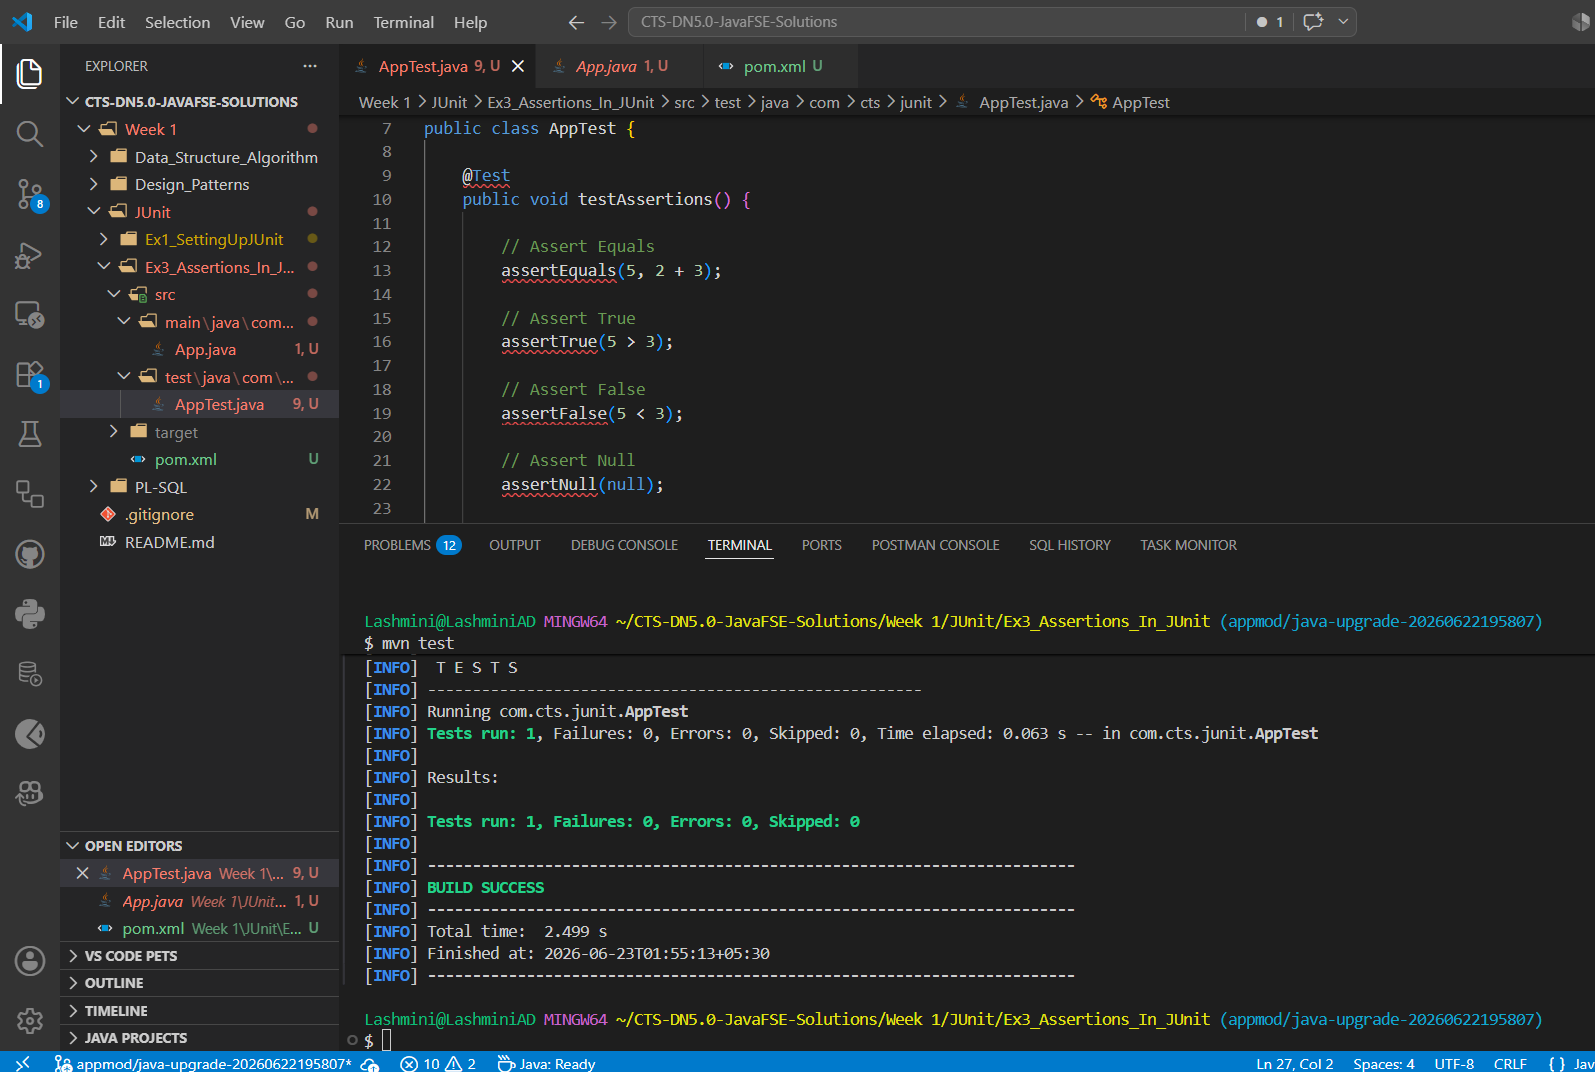
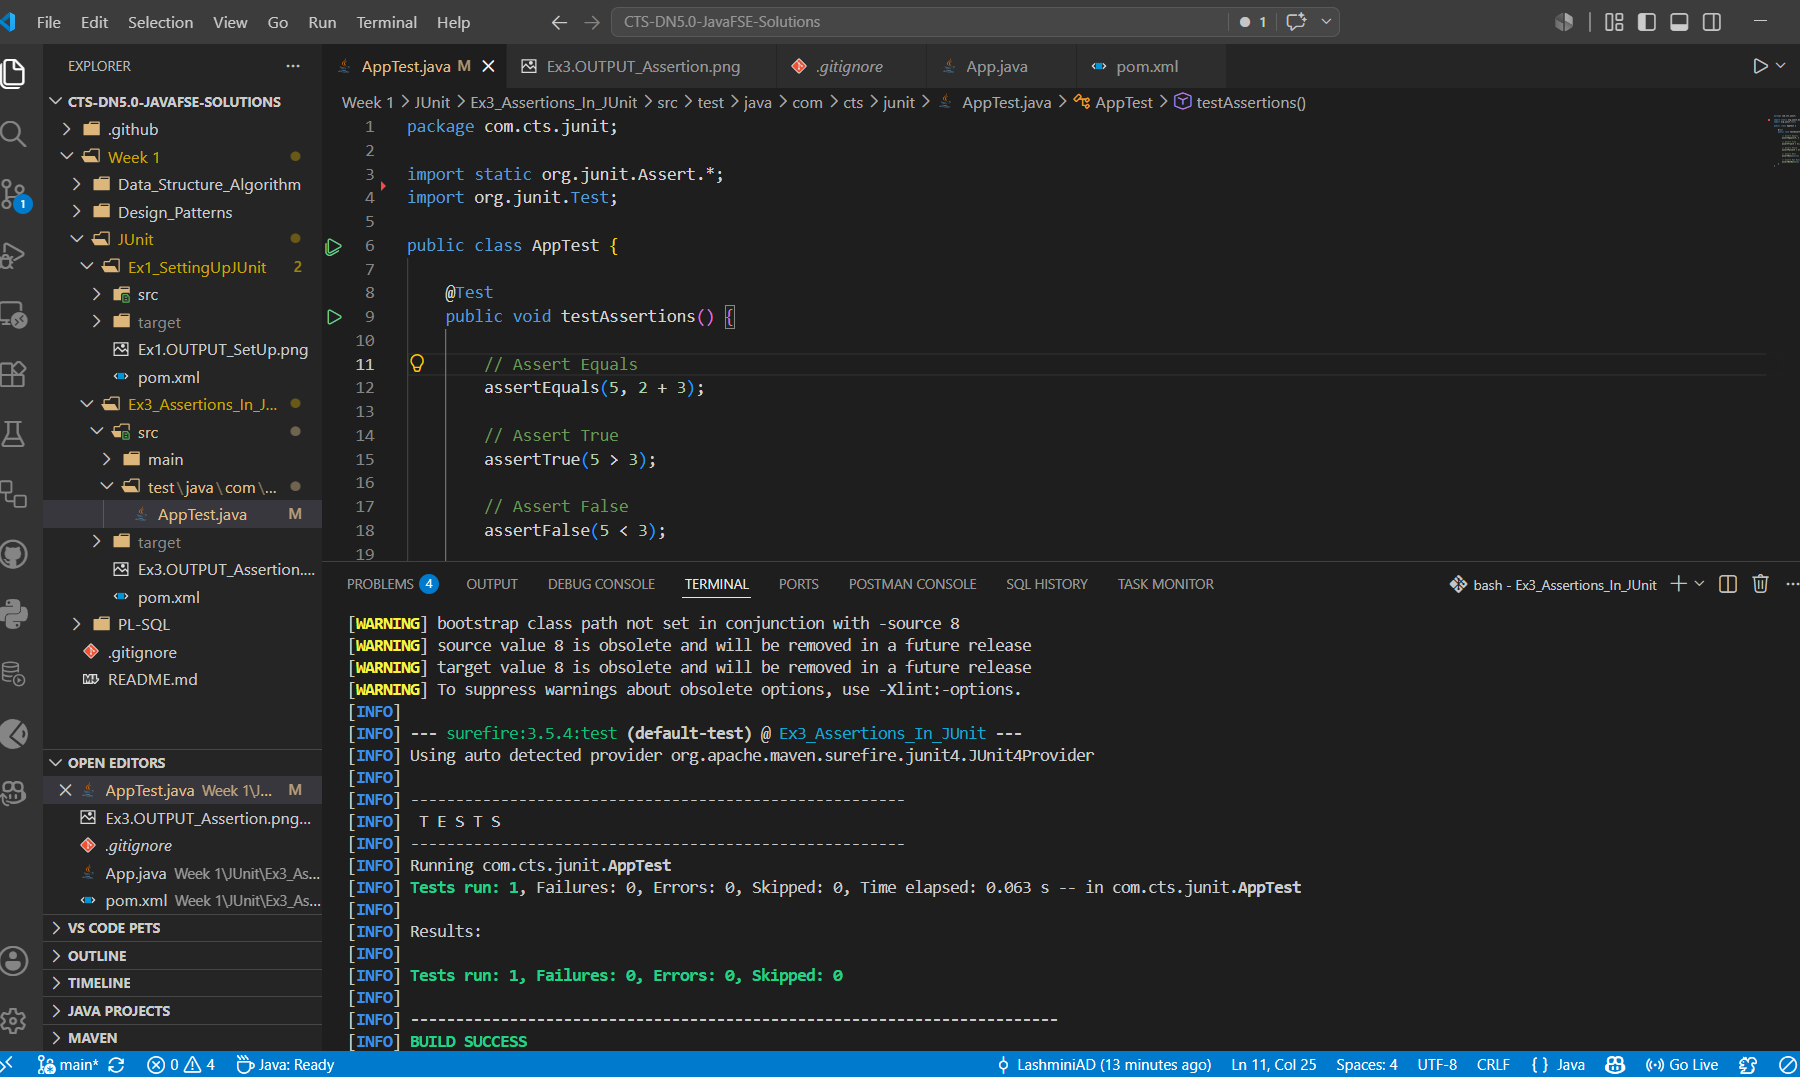
changes have been done

diff --git a/Week 1/JUnit/Ex3_Assertions_In_JUnit/src/test/java/com/cts/junit/AppTest.java b/Week 1/JUnit/Ex3_Assertions_In_JUnit/src/test/java/com/cts/junit/AppTest.java
@@ -1,8 +1,6 @@
 package com.cts.junit;
 
 import static org.junit.Assert.*;
-
-
 import org.junit.Test;
 
 public class AppTest {